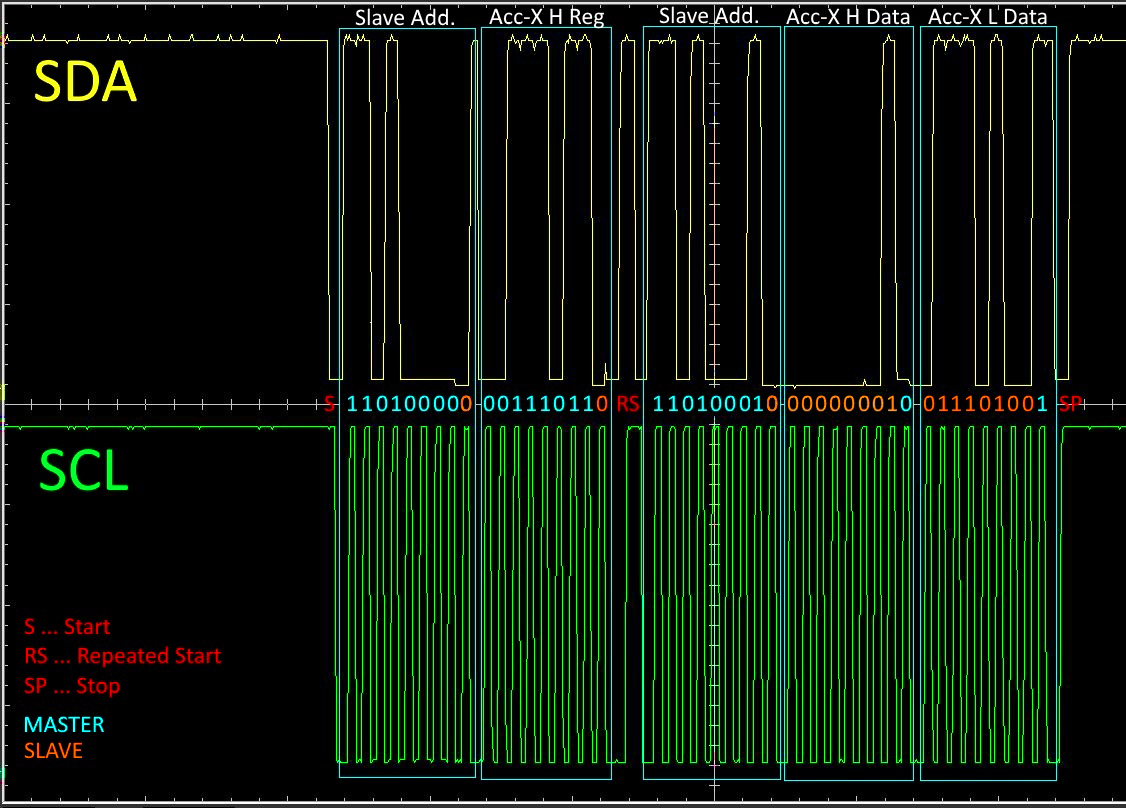
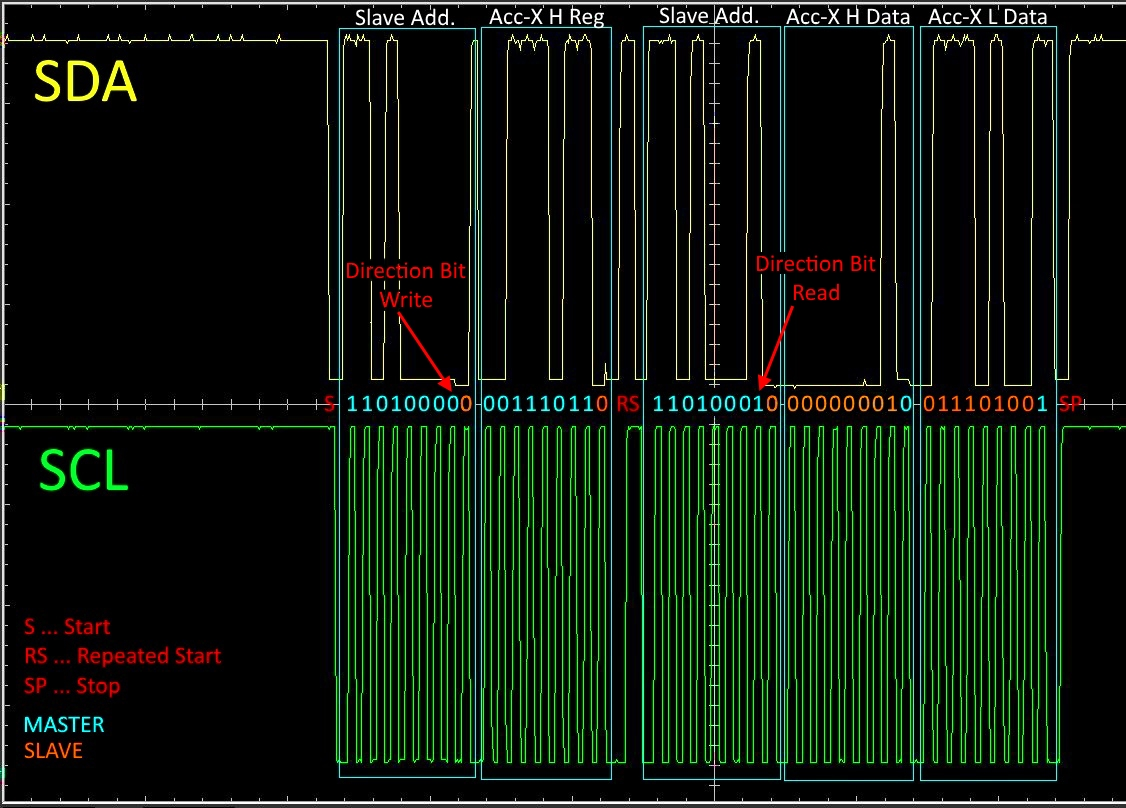
I2C page

diff --git a/I2C.html b/I2C.html
@@ -21,17 +21,17 @@
     <h1>I<sup>2</sup>C</h1>
 
 <h3>Introduction</h3>
-<p><strong>I<sup>2</sup>C</strong> (pronounced I-two-C and most of the time also written as I2C as well) is a very popular communication protocol in the world of microcontrollers. It's advantage is that it allows communication between multiple devices by using only two wires, <strong>SDA (Serial Data Line)</strong> and <strong>SCL (Serial Clock Line)</strong>, unlike USART or SPI where every pair of devices needs its own set of wires. The protocol was invented by Phillips Semiconductors in 1982. The first time I encountered I2C was when I wanted to measure the orientation in space with my Arduino. For that purpose I bought an MPU6050 inertial measurement unit (IMU) that required I2C to talk to it. At first I was really confused since I had no experience with digital communication protocols except some basic understanding of USART from using Arduino Serial library. The first time I looked at an example code for reading accelerometer and gyroscope data from the MPU6050, the example code scared the hell out of me with of a bunch of hexadecimal register addresses. In this tutorial I will try to do my best to explain the principle of the I2C protocol and show an example using an Arduino, standalone ATMega328P chip and Raspberry Pi. I will start with an Arduino Uno and add examples with other devices later. For all the examples I will use the MPU6050, but you may use whichever device you desire. Sometimes I will refer to Arduino and the standalone ATmega328P chip, simply as ATmega328P, since this is also the microcontroller that Arduino uses, but I will provide an example on how to use I2C on a standalone ATmega328P chip in plain C as well. Just for the side note, in terms of legal issues, I<sup>2</sup>C can be freely implemented on any commercial device, but in order to use the name I<sup>2</sup>C on the product, you have to pay, so most of the products use a different name. For instance Atmel uses "Two-wire interface" (TWI) on they chips (ATmega328P).</p>
+<p><strong>I<sup>2</sup>C</strong> (pronounced I-two-C and usually written as I2C as well) is a very popular communication protocol in the world of microcontrollers. It's advantage is that it allows communication between multiple devices by using only two wires, <strong>SDA (Serial Data Line)</strong> and <strong>SCL (Serial Clock Line)</strong>, unlike USART or SPI where every pair of devices needs its own set of wires. The protocol was invented by Phillips Semiconductors in 1982. The first time I encountered I2C was when I wanted to measure the orientation in space with my Arduino. For that purpose I bought an MPU6050 inertial measurement unit (IMU) that required I2C to talk to it. At first I was really confused since I had no experience with digital communication protocols except some basic understanding of USART from using Arduino Serial library. The first time I looked at an example code for reading accelerometer and gyroscope data from the MPU6050, the example code scared the hell out of me with of a bunch of hexadecimal register addresses. In this tutorial I will try to do my best to explain the principle of the I2C protocol and show an example using an Arduino, a standalone ATMega328P chip and a Raspberry Pi. I will start with an Arduino Uno and add examples with other devices later. For all the examples I will use the MPU6050, but you may use whichever device you desire. Sometimes I will refer to the Arduino and the standalone ATmega328P chip, simply as ATmega328P, since this is also the microcontroller that Arduino uses, but I will provide an example on how to use I2C on a standalone ATmega328P chip in plain C. On a side note, in terms of legal issues, I<sup>2</sup>C can be freely implemented on any commercial device, but in order to use the name I<sup>2</sup>C on the product, you have to pay NXP Semiconductors, so most of the products use a different name. For instance Atmel uses "Two-wire interface" (TWI) on they chips (ATmega328P), hence a "Wire.h" library for the Arduino as you will see later.</p>
 
 <h3>The Principle</h3>
 
-<p>To explain how the protocol works I will use an example of three human slaves, where each one monitors a different sensor and reports the reading to the one of the two masters when they request it. Slaves and masters use walkie-talkies to talk to each other. Image below shows the three slaves and two masters.</p>
+<p>To explain how the protocol works I will use an example with three human slaves, where each one of them monitors a different sensor and reports the reading to the one of the two masters when they request it. Slaves and masters use walkie-talkies to talk to each other. Image below shows the three slaves and two masters.</p>
 
 <img src="images/master_slave.png" class="report-figure" style="padding-bottom: 20px;">
 
 <p>Slave A monitors a humidity sensor, slave B a thermometer and slave C a barometer. Masters 1 or 2 can ask the slaves for readings whenever they want. In smaller microcontroller projects, you will most likely use a single master, but in order to explain the full functionality of I2C, I'm using two masters.</p> 
 
-<p>Since there are three different slaves, each one of them has a name (an address) by which the master is going to get their attention. To keep it simple I will just name them A, B an C, as depicted on the image. They agreed in advance that to get the data from the slaves, a master has to first remotely ring a bell at the site where the slaves are, get the desired slave's attention by calling the slave's name and then tell the slave in what units the data should be reported. Once the master gets a pencil and a paper to write down the measurement from the slave he/she transmits the name of the slave again, which means that the slave should report the measurement. Once the measurement is written down, the master rings the bell twice to mark the end of the conversation. To make sure that a certain slave is present (better be) and that the instruction was heard, the receiver <strong>acknowledges</strong> that the instruction was received. If the master is happy with the received message, he/she transmits "enough", to indicate that this was all that was needed. I will call this "enough" as not-acknowledged (sounds weird, but you will see later why I call it like that). In order for the master 1 to receive the temperature in Fahrenheit from the slave B, the conversation would go as following:</p>
+<p>Since there are three different slaves, each one of them has a name (an address) by which a master gets their attention. To keep it simple I will just name them A, B an C, as depicted on the image. They agreed in advance that to get the data from the slaves, a master has to first remotely ring a bell at the site where the slaves are, get the desired slave's attention by calling the slave's name and then tell the slave in what units the data should be reported. Once the master gets a pencil and a paper to write down the measurement from the slave he/she transmits the name of the slave again, which means that the slave should report the measurement. Once the measurement is written down, the master rings the bell twice to mark the end of the conversation. Another important purpose of the bell is to let the other master know, that he/she should wait until the first master ends the conversation. To make sure that a certain slave is present (better be) and that the instruction was heard, the receiver <strong>acknowledges</strong> that the instruction was received. If the master is happy with the received message, he/she transmits "enough", to indicate that this was all that was needed. I will call this "enough" as not-acknowledged (sounds weird, but you will see later why I call it like that). In order for the master 1 to receive the temperature in Fahrenheit from the slave B, the conversation would go as following:</p>
 
 <table class="table" style="width: 80%; margin: 0 auto;">
     <thead>
@@ -95,7 +95,7 @@
     </tbody>
   </table>
 
-<p style="padding-top: 20px">Just to understand another important concept let's assume that the master 1 wants to know the pressure in psi and MPa from the slave C. They also agreed in advance that whenever the master acknowledges the reception by "roger", the slave then just transmits the measurement in another unit right after. Slave C keeps track of pressure measurements in psi, MPa, atm and torr, so if the master received the measurement in psi, he/she acknowledges the message by "roger", to let the slave know to send the pressure in kPa as well. The slave keeps sending the measurement until the master "not-acknowledges" the reception by "enough" or until the slave has no more measurements to send. The conversation for receiving pressure measurements in psi and kPa would go like this:</p>
+<p style="padding-top: 20px">Just to understand another important concept let's assume that the master 1 wants to know the pressure in psi and MPa from the slave C. They also agreed in advance that whenever the master acknowledges the reception by "roger", the slave then transmits the measurement in another unit right after. Slave C keeps track of pressure measurements in psi, MPa, atm and torr, so if the master received the measurement in psi, he/she acknowledges the message by "roger", to let the slave know to send the pressure in kPa as well. The slave keeps sending the measurement until the master "not-acknowledges" the reception by "enough" or until the slave has no more measurements to send. The conversation for receiving pressure measurements in psi and kPa would go like this:</p>
 
 <table class="table" style="width: 80%; margin: 0 auto;">
     <thead>
@@ -169,7 +169,7 @@
     </tbody>
   </table>
 
-<p style="padding-top: 20px">This acknowledgment, not-acknowledgment agreement would prove more useful if there was only one slave who was measuring all the different sensors at once. In that case the master would just tell the slave to report whatever measurement was the first on the list and keep acknowledging until all the required measurements were received. The communications seems quite complicated and redundant, but this protocol is not really intended for humans, but digital devices instead. By saying that they know something in <strong>advance</strong>", it is implied that these are the <strong>rules</strong> of the protocol. Before going into the world of digital devices, let's go over some of the specifications and prerequisites.</p>
+<p style="padding-top: 20px">This acknowledgment, not-acknowledgment agreement would prove more useful if there was only one slave that was measuring all the different sensors at once. In that case the master would just tell the slave to report whatever measurement was the first on the list and keep acknowledging until all the required measurements were received. The communications seems quite complicated and redundant, but this protocol is not really intended for humans, but digital devices instead. By saying that they know something in <strong>advance</strong>", it implies that these are the <strong>rules</strong> of the protocol. Before going into the world of digital devices, let's go over some of the specifications and prerequisites.</p>
 
 <h3>The Basics</h3>
 
@@ -178,81 +178,82 @@
   <li>basic electronics</li>
   <li>basic C (or Arduino dialect)</li>
   <li>the difference between binary, decimal, hexadecimal, ...</li>
-  <li>what registers are (at least know that a register is a storage area where data or instructions are stored, in ATmega328P they are 8-bits long)
+  <li>what registers are (at least know that a register is a memory slot where data or instructions are stored, in ATmega328P a register can hold 8 bits (1 byte)).
 </li>
 </ul>
 
-<p>The devices communicating via I2C are all connected to the same set of wires, SDA (Serial Data Line) and SCL (Serial Clock Line), where all the data transfers takes place. The two wires constitute the <strong>I2C bus</strong>. As shown in the example above, I2C is a multi-master, multi-slave protocol, which means that a system of nodes (devices) can have multiple master devices and multiple slave devices. To understand what this means you need to understand what each one of them does. In a few words:</p>
+<p>The devices communicating via I2C are all connected to the same set of wires, SDA (Serial Data Line) and SCL (Serial Clock Line). The two wires constitute the <strong>I2C bus</strong>. As shown in the example above, I2C is a <strong>multi-master</strong>, <strong>multi-slave protocol</strong>, which means that a system of nodes (devices) can have multiple master devices and multiple slave devices. To understand what this means you need to understand what each one of them does. In a few words:</p>
 
 <ul>
 	<li>Master Device: generates the clock and initializes the communication with a slave device</li>
 	<li>Slave Device: receives the clock and responds when addressed by the master.</li>
 </ul>
+
 <p>Microcontrollers such as the Arduino (ATmega328P) can be configured to act as a master or a slave device, whereas simpler sensor devices usually support only the slave mode.</p>
 
-<blockquote><small>One thing to keep in mind when using multiple masters is that they cannot communicate with each other, but they have to listen to I2C bus if anyone else is transmitting before requesting data from the slaves, so they don't request it at the same time, since the slaves would not understand what masters want if they request something at the same time. This also applies to the regular conversation between people. If you talked to an audience, everyone who listened would understand what you are saying (assuming you talked loud and clear in a language everyone understood). But if everyone in the audience tried to tell you something at the same time, you would just hear some jibber jabber. If two or more master devices would transmit a packet to slaves at the same time, the packets would <em>collide</em>, so in case of a multi-master I2C setup, some sort of packet collision aviodance mechanism has to be implemented. As I wrote before, this only applies if you have a project consisting of multiple master devices, otherwise do not worry about this now.</small></blockquote>
+<blockquote><small>One thing to keep in mind when using multiple masters is that they cannot communicate with each other, but they have to listen to the I2C bus if anyone else is transmitting before requesting data from the slaves, so they don't request it at the same time, otherwise the slaves would not understand what masters want. This also applies to the regular conversation between people. If you talked to an audience, everyone who listened would understand what you are saying (assuming you talked loud and clear in a language everyone understood). But if everyone in the audience tried to tell you something at the same time, you would just hear some jibber jabber. If two or more masters transmit a packet to slaves at the same time, the packets <em>collide</em>, so in case of a multi-master I2C setup, a some sort of packet collision avoidance mechanism has to be implemented. As I wrote before, this only applies if you have a project consisting of multiple master devices, otherwise do not worry about this for now.</small></blockquote>
 
 <h4>SCL and SDA</h4>
 
-<p>SDA is where the data, the payload, is transmitted between the devices.</p>
+<p><strong>SDA</strong> is where the data, the payload, is transmitted between the devices.</p>
 
-<p>SCL is where the master sends the generated clock signal that the slave devices receive. With this said, a shared clock between the master and slave devices makes I2C a <strong>synchronous protocol</strong>, in contrast of USART, which is <strong>asynchronous</strong>. In asynchronous protocols the two devices talking to each other need to know in advance the rate at which they will transfer bits (baudrate).</p>
+<p><strong>SCL</strong> is where the master sends the generated clock signal that the slave devices receive. With this said, a shared clock between the master and slave devices makes I2C a <strong>synchronous protocol</strong>, in contrast of UART, which is <strong>asynchronous</strong>. In asynchronous protocols the two devices talking to each other need to know in advance the rate at which they will transfer the bits (baudrate).</p>
 
-<p>The clock that the master generates defines the rate at which the data is transfered. I2C supports various clock speeds, but simple devices commonly used in microcontroller projects support the original 100 kHz mode or the 400 kHz fast-mode. The fastest supported mode for I2C right now is 5 GHz Ultra Fast-mode.</p>
+<p><strong>The clock</strong> that the master generates defines the rate at which the data is transfered. I2C supports various clock speeds, but simple devices commonly used in microcontroller projects support the original 100 kHz mode or the 400 kHz fast-mode. The fastest supported mode for I2C right now is the 5 GHz Ultra Fast-mode.</p>
 
 <h4>Addressing</h4>
 
-<p>The number of devices that I2C can communicate with are defined by the number of bits each device's address consists of. I2C devices can have 7 or 10 bit addresses. In theory, the largest number that a 7-bit address can be is (1111111)<sub>2</sub> or (127)<sub>10</sub>, which defines the maximum number of devices connected to the same I2C bus. Since there are some addresses that are reserved and cannot be used for addressing, the maximum number of devices with 7-bit addresses is (112)<sub>10</sub>. (I am using the parentheses with a subscript to indicate the base of the number, so 2 for binary and 10 for decimal and 16 for hexadecimal.) The maximum number of devices is also limited at the physical layer by the total bus capacitance.</p>
+<p>The number of devices that I2C can communicate with is defined by the number of bits each device's address consists of. I2C devices can have 7 or 10 bit addresses. In theory, the largest number that a 7-bit address can be is (1111111)<sub>2</sub> or (127)<sub>10</sub>, which defines the maximum number of devices connected to the same I2C bus. Since there are some addresses that are reserved and cannot be used for addressing, the maximum number of devices with 7-bit addresses is (112)<sub>10</sub>. (I am using the parentheses with a subscript to indicate the base of the number, so 2 for binary and 10 for decimal and 16 for hexadecimal.) The maximum number of devices is also limited at the physical layer by the total bus capacitance.</p>
 
-<p>I2C addresses as well as any other memory address (registers, etc.) are by convention expressed in hexadecimal. Hexadecimal numbers are much more convenient then binary, since in binary the addresses would become very long, which would be very hard to remember and prone to mistakes. The conversion between hexadecimal and binary is much easier then between decimal and binary. Sometimes I will use the C-language syntax to indicate the base of the numbers, where decimal numbers are depicted simply as the number itself, binary numbers have 0b prefix (ex: 0b1010 = 10) and hexadecimals have 0x prefix (ex: 0xA = 0b1010 = 10).</p>
+<p>I2C and any other memory addresses (registers, etc.) are by convention expressed in hexadecimal. Hexadecimal numbers are much more convenient then binary, since in binary the addresses would become very long, which would be hard to remember and prone to mistakes. The conversion between hexadecimal and binary is much easier then between decimal and binary. Sometimes I will use the C-language syntax to indicate the base of the numbers, where decimal numbers are depicted simply as the number itself, binary numbers have a 0b prefix (ex: 0b1010 = 10) and hexadecimals have a 0x prefix (ex: 0xA = 0b1010 = 10).</p>
 
 <h3>Example with Digital Devices</h3>
 
-<p>To give the just explained information more sense, let's consider a real I2C example shown below.</p>
+<p>To give more sense to what I just explained, let's consider a real I2C example shown below.</p>
 
 <img src="images/master_slave_real.png" class="report-figure" style="width: 95%">
 
-<p>This setup uses two masters, one is an Arduino Uno used to control something and the other one is a Raspberry Pi used for storing the data to a remote database. The slaves are two MPU6050 IMUs, placed on two different spots on, for example, a spaceship.</p>
+<p>This setup uses two masters, one is an Arduino Uno used to control something and the other one is a Raspberry Pi used for storing the data to a remote database. The slaves are two MPU6050 IMUs, placed on two different spots on, for example, on a spaceship.</p>
 
-<p>As we switched from people to digital devices, the first thing to do is to wire them properly. As you can see on the image above, both I2C wires, SDA and SCL are connected to the same voltage source by 2 pull-up resistors. The reason the pull-up resistors are used is that the I2C lines are open-drain (or open-collector in TTL), which means that the signal can be pulled to low, but not to high. For projects with Arduino, Raspberry Pi and other similar devices, the source is usually 3.3 V or 5 V. The selection of pull-up resistors is a bit more complicated, since an optimal resistance depends on the length of the wires and the number of connected devices to the bus. Sparkfun recommends to start with 4.7 k&#8486; resistors and work down if needed. All of the devices have to be to be connected to a common ground, this is very important. Before getting all frustrated by selecting proper pull-up resistors make sure that the devices you are going to use don't implement them already, for instance MPU6050 has both lines connected to high with 4.7 k&#8486; resistors. If all the devices are very close to each other that should usually work most of the time, but if you intend to use longer wires for I2C, you might have to try different pull-up resistors. Also keep in mind that longer wires are more prone for errors, so if there is much more environmental noise, they should be kept as short as possible.</p>
+<p>As we switched from people to digital devices, the first thing to do is to wire them properly. As you can see on the image above, both I2C wires, SDA and SCL are connected to the same voltage source by 2 pull-up resistors. The reason the pull-up resistors are used is that the I2C lines are <strong>open-drain</strong> (or <strong>open-collector</strong> in TTL), which means that the signal can be pulled to low, but not to high. For projects with Arduino, Raspberry Pi and other similar devices, the voltage source is usually at 3.3 V or 5 V. The selection of pull-up resistors is a bit more complicated, since an optimal resistance depends on the length of the wires and the number of devices connected to the bus. Sparkfun recommends to start with 4.7 k&#8486; resistors and work down if needed. All of the devices have to be connected to a common ground, this is very important. Before getting all confused by selecting proper pull-up resistors make sure that the devices you are going to use don't implement them already, for instance MPU6050 has both lines connected to high with 4.7 k&#8486; resistors. Having all the devices close to each other should work well most of the time, but if you intend to use longer wires between the devices, you might have to try different pull-up resistors. Also keep in mind that long wires are more prone to noise-induced errors, so if there is a lot of noise in the environment, the wires should be kept as short as possible.</p>
 
-<p>Now that all is hooked up, let's go into the basics of the protocol. The clock signal on the SCL is generated by the master devices when it initiates the communication. When no communication is taking place, the SCL is constantly pulled to high. A very important rule of the protocol is that a signal on SDA can change only when the clock is low, except when the master assign the start and stop of the communication. Start and stop conditions consist of a change of state when the clock is high, they are defined as:</p>
+<p>Now that all is hooked up, let's go into the basics of the protocol. The clock signal on the SCL is generated by the master devices when it initiates the communication. When no communication is taking place, the SCL is constantly pulled to high. A very important rule of the protocol is that a signal on the SDA can change only when the clock is low, the only exception to this is when the master signals the start or the stop of the communication. Start and stop conditions consist of a change of state when the clock is high, they are defined as:</p>
 
 <ul>
 	<li>Start: SDA is pulled from high to low</li>
 	<li>Stop: SDA is pulled low from high.</li>
 </ul>
 
-<p>Right after the start condition is transmitted by the master, other communication information follows. Devices decode whether the bit send is true or false, by checking if the voltage is high or low when the clock (SCL) is high. It's easier to explain this with a simple timing diagram as shown below: (For drawing timing diagrams I use <a href="http://wavedrom.com/" target="_blank">WaveDorm</a>.)</p>
+<p>Right after the start condition is transmitted by the master, other communication information follow. Devices decode whether the bit sent is true or false, by checking if the voltage is high or low when the clock (SCL) is high. It's easier to explain this with a simple timing diagram as shown below: (For drawing timing diagrams I use <a href="http://wavedrom.com/" target="_blank">WaveDorm</a>.)</p>
 
 <img src="images/I2C_timing.png" class="report-figure" style="width: 90%">
 
-<p>In this example I will use devices with 7-bit addresses, slave A has the address (68)<sub>16</sub> and slave B the address (69)<sub>16</sub>. So in order to address the right slave, its address has to be sent in binary right after the start bit. So to address the (68)<sub>16</sub> MPU6050, (1101000)<sub>2</sub> has to be sent.</p>
+<p>In this example I will use devices with 7-bit addresses, slave A has the address (68)<sub>16</sub> and slave B the address (69)<sub>16</sub>. In order to address the right slave, its address has to be sent in binary right after the start bit. For example, to address the (68)<sub>16</sub> MPU6050, (1101000)<sub>2</sub> has to be sent.</p>
 
-<p>Just like the master had to tell the slave whether to listen or do report the data, the master device has to do the same, so the bit sent after the address is called the <strong>direction bit</strong> (READ/WRITE), where:</p>
+<p>Just like the master had to tell the slave whether to listen or to report the data, the master device has to do the same by sending another specific bit after the address. This bit is called the <strong>direction bit</strong> (READ/WRITE), where:</p>
 
 <ul>
   <li>Read: 1 (low)</li>
   <li>Write: 0 (high)</li>
 </ul>
 
-<p>Sometimes the addresses are written as devices <strong>write</strong> and <strong>read address</strong>. Those addresses are just the 7-bit device's address with the direction bit appended. For the (68)<sub>16</sub> MPU6050 we could write read and write addresses as following:</p>
+<p>Sometimes the addresses are written as the <strong>write</strong> and <strong>read address</strong>. Those addresses are just the 7-bit device's address with the direction bit appended. Arduino's "Wire.h" library takes care of that for you, so you don't have to worry about it, but you might run into it at some point. For the (68)<sub>16</sub> MPU6050 we could write read and write addresses as following:</p>
 
 <ul>
   <li>Read Address: (11010001)<sub>2</sub> = (D1)<sub>16</sub></li>
   <li>Write Address: (11010000)<sub>2</sub> = (D0)<sub>16</sub></li>
 </ul>
 
-<p>When the slave is address and no errors occurred, the slave acknowledge the message. The acknowledge bit is depicted as <strong>ACK</strong> and not-acknowledge as <strong>NACK</strong>, where:</p>
+<p>When the slave is addressed and no errors occurred, it acknowledges the message. The acknowledge bit is usually written as <strong>ACK</strong> and not-acknowledge as <strong>NACK</strong>, where:</p>
 
 <ul>
   <li>ACK: 0 (low)</li>
   <li>NACK: 1 (high)</li>
 </ul>
 
-<p>ACK and NACK bit is transmitted by the received device, whether this is a master or the slave, right after the 8-bit from the sender are received. NACK bit is used to let the sender know that enough information was received and that the communication is about to stop or whenever an error occurred, so it can be used for error checking. This also makes I2C suitable for noise environments.</p>
+<p>ACK or NACK bit is transmitted by the received device, whether the received is a master or the slave. It is transmitted right after the 8 bits from the sender are received. NACK bit is used to let the sender know that enough information was received and that the communication is about to stop or if an error occurred, so it can be used for error checking as well. This also makes I2C suitable for noisy environments.</p>
 
-<p>To recap how the whole communication between a master and a slave goes, I will show it in a similar table I used in the second example, except here I will use an IMU for getting the 16-bit signed integer reading of the acceleration in X direction (the coordinate axis is draw on the accelerometer, this information doesn't really matter for now). Because only 8-bit number can be read from a device right now and because the IMU (as well as the ATmega328P) store the data in 8-bit registers, 16-bit numbers have to be store in two separate registers. The most significant 8 bits are stored at one location and the least significant 8-bit are stored at another location, most of the time they are in the next location from the most significant bit, so they can be read one after another. Here is the table:</p>
+<p>To recap how the whole communication between a master and a slave goes, I will show it in a similar table I used in the second example, except here I will use an IMU for getting the 16-bit signed integer reading of the acceleration in X direction (the coordinate axis is drawn on the accelerometer). Because only 8-bit number can be read from a device and because the IMU (as well as the ATmega328P) store the data in 8-bit registers, 16-bit numbers have to be stored in two separate registers. The most significant byte is stored at one location and the least significant byte at another location in memory, most of the time they are in the next location from the most significant bit, so they can be read one after another. Here is the table:</p>
 
 <table class="table" style="width: 80%; margin: 0 auto;">
     <thead>
@@ -345,11 +346,11 @@
 
 <img src="images/arduinoExample.png" class="report-figure" style="width: 50%; padding-top: 20px; padding-bottom: 20px;">
 
-<p>The Vcc pin on the MPU6050 is connected to 5 V on Arduino. Grounds (GND) are connected together. SCL and SDA pins on the MPU6050 are connected to SCL and SDA on the Arduino, SCL is on pin A5 and SDA is on pin A4. AD0 pin on the MPU6050 is connected to ground, the AD0 pin is a device address select pin, since if connected to ground, MPU6050's address is (68)<sub>16</sub>, if connected to Vcc, its address is (69)<sub>16</sub>. This makes it possible to use two MPU6050s on the same I2C bus.</p>
+<p>The Vcc pin on the MPU6050 is connected to 5 V on the Arduino. Grounds (GND) are connected together. SCL and SDA pins on the MPU6050 are connected to SCL and SDA on the Arduino, SCL is connected to pin A5 and SDA is to pin A4. AD0 pin on the MPU6050 is connected to the ground, the AD0 pin is the  "device address select" pin, since if connected to the ground, MPU6050's address is (68)<sub>16</sub>, if connected to Vcc, its address is (69)<sub>16</sub>. This makes it possible to use two MPU6050s on the same I2C bus.</p>
 
-<p>With the MPU6050 we can measure acceleration and angular rates in three axis (X, Y and Z), but for simplicity I will read only acceleration in Z direction from it. All of the measurements on the IMU are 16-bits longs, hence they are stored in two separate registers that have to be read from and combined into one 16-bit value on the Arduino.</p>
+<p>With the MPU6050 we can measure acceleration and angular rates in three axis (X, Y and Z), but for simplicity I will read only acceleration in the X direction. All of the measurements on the IMU are 16 bits longs, hence they are stored in two separate registers that have to be read separately and combined into one 16-bit variable on the Arduino.</p>
 
-<p>In the example with ATmega328P I will go more into lower level details on how I2C works, but in this example with the Arduino Uno, I will keep it a bit simpler and use Arduino's "Wire.h" library that is written specifically for I2C communication. First I will show the code and then explain the I2C functions.</p>
+<p>In the example with the ATmega328P I will go more into lower level details on how I2C works, but in this example with the Arduino Uno, I will keep it a bit simpler and I will use Arduino's "Wire.h" library that is written specifically for I2C communication. First I will show the code and then explain it.</p>
 
 <pre class=".pre-scrollable"><code>
 #include&lt;Wire.h&gt;
@@ -380,13 +381,13 @@ void loop(){
 }
 </code></pre>
 
-<p>I will assume that you know the basics of C or Arduino dialect, so I won't go into details on how to include a library, such as Wire.h, how to declare a variable or what setup() and loop() functions are.</p>
+<p>I will assume that you know the basics of C or Arduino dialect, so I won't go into details on how to include a library, how to declare a variable or what setup() and loop() functions are.</p>
 
 <p><code>Wire.begin();</code> sets up the chip for the I2C communications and joins the I2C bus as a master. (If we wanted the Arduino to be as a slave device, we would pass a desired I2C address to the begin method.)</p>
 
 <p><code>Wire.beginTransmission(MPU6050_ADDRESS);</code> does what is says, it begins the transmission with the slave device, in this case the MPU6050 with the address 0x68 as defined with the MPU6050_ADDRESS macro.</p>
 
-<p>The following two lines: <code>Wire.write(MPU6050_RA_PWR_MGMT_1);</code> and <code>Wire.write(1);</code> queue ("store") the bytes to be sent to the slave device when <code>Wire.endTransmission(true)</code> is called. The input argument for the endTransmission method specifies whether to end the transmission with a <strong>Stop condition</strong> or a <strong>Repeated Start condition</strong>. The repeated start is used when we want to send a command to a device and then read the response right away. This keeps the I2C bus busy, so another master on the bus cannot interrupt the transmission. The MPU6050_RA_PWR_MGMT_1 register sets up the clock source that drives the IMU. I don't want to go into details here, I will write another post about the MPU6050. For now just remember that by setting the MPU6050_RA_PWR_MGMT_1 register to 0b00000000 (0) the MPU6050 will use its internal 8 MHz clock, by setting the register to 0b00000001 (1), it will use the X-gyroscopes clock, which was determined to be a bit more stable than the default clock. One very important thing to remember how Arduino's wire.h library works is that it queues the bytes we want to send and sends all of them when endTransmission method is called. A queue is a <strong>FIFO (First In First Out)</strong> data structure, which means that whatever we queue first, will be sent first. Let's show how this works on the code written inside the loop() function.</p>
+<p>The following two lines: <code>Wire.write(MPU6050_RA_PWR_MGMT_1);</code> and <code>Wire.write(1);</code> queue ("store") the bytes to be sent to the slave device when <code>Wire.endTransmission(true)</code> is called. The input argument for the endTransmission method specifies whether to end the transmission with a <strong>Stop condition</strong> or a <strong>Repeated Start condition</strong>. The repeated start is used when we want to send a command to a device and then read the response right away. This keeps the I2C bus busy, so another master on the bus cannot interrupt the transmission. The MPU6050_RA_PWR_MGMT_1 register sets up the clock source that drives the IMU. I don't want to go into details here, I will write another post about the MPU6050. For now just remember that by setting the MPU6050_RA_PWR_MGMT_1 register to 0b00000000 (0) the MPU6050 will use its internal 8 MHz clock, by setting the register to 0b00000001 (1), it will use the X-gyroscopes clock, which was determined to be a bit more stable than the default clock. An important thing to remember about how Arduino's "Wire.h" library works is that it <strong>queues</strong> the bytes we want to send and sends all of them when endTransmission method is called. A <strong>queue</strong> is a <strong>FIFO (First In First Out)</strong> data structure, which means that whatever we queue first, will be sent first. Let's show how this works by going through the code written inside the loop() function.</p>
 
 <ol>
 <li><code>Wire.beginTransmission(MPU6050_ADDRESS);</code>-queue the 7-bit MPU6050 address - 0b1101000</li>
@@ -396,7 +397,7 @@ void loop(){
 <li><code>AcX=Wire.read()<<8|Wire.read();</code>-with the method <code>Wire.read()</code> we read each byte (8-bits) of the 16-bit accelerometer measurement separately and store it in a 16-bit variable AcX. Below is a detailed explanation of this line of code.</li>
 </ol>
 
-<p>The MPU6050 IMU uses a 16-bit <strong>analog-to-digital converted (ADC)</strong> for digitizing sensor outputs, so all the sensor readings are 16-bit signed integer values (two's complement format), but it stores the number in two 8-bit registers. The most significant byte (the high byte) is stored in one register, while the other, the least significant byte (the low byte) is stored in another register. For convenience, the MPU6050 (as well as most of other sensor devices) stores the high byte of the sensor measurement one register before the register that hold the low byte. For instance the X-Accelerometer high byte is stored in the register with the address 0x3B, while the low byte is stored at 0x3C, so by taking the advantage of ACK and NACK bits we can receive both bytes one after another. Line <code>AcX=Wire.read()<<8|Wire.read();</code> reads both, the high and the low byte one after another and does some bitwise operations to store them in the 16-bit variable AcX. These operations can be written in multiple lines of code for better clarity, such as:</p>
+<p>The MPU6050 IMU uses a 16-bit <strong>analog-to-digital converter (ADC)</strong> for digitizing sensor outputs, so all the sensor readings are 16-bit signed integer values (two's complement format), but it stores the number in two 8-bit registers. The most significant byte (the high byte) is stored in one register, while the other, the least significant byte (the low byte) is stored in another register. For convenience, the MPU6050 (as well as most of the other sensor devices) holds the high byte of the sensor measurement one register before the register that holds the low byte. For instance the X-Accelerometer high byte is stored at the address 0x3B, while the low byte is stored at 0x3C, so by taking the advantage of the ACK and NACK bits we can receive both bytes one after another. Line <code>AcX=Wire.read()<<8|Wire.read();</code> reads both, the high and the low byte one after another and does some bitwise operations to store them in the 16-bit variable AcX. These operations can be also written in multiple lines of code for better clarity, such as:</p>
 
 <pre class=".pre-scrollable"><code>
   AcX_High = Wire.read();
@@ -405,11 +406,11 @@ void loop(){
   AcX = AcX|AcX_Low;
 </code></pre>
 
-<p>Where the first line stores the high byte to AcX_High 16-bit signed variable (uint16_t), the second line does the same with the low byte and stores it to AcX_Low, the third line shifts the high_byte 8-bits to the left with the <strong>bit-shift operator</strong> (left: <<, right: >>), the fourth line performs the <strong>bitwise</strong> OR operation with the AcX variable containing the shifter high byte and the AcX_Low variable containing the low byte. The bitwise OR does the OR operation between each bit of each variable. Below is a graphical representation of these operations.</p>
+<p>The first line stores the high byte to AcX_High 16-bit signed variable (int16_t), the second line does the same with the low byte and stores it to AcX_Low, the third line shifts the high byte 8-bits to the left with the <strong>bit-shift operator</strong> (left: <<, right: >>), the fourth line performs the <strong>bitwise</strong> OR operation with the AcX variable containing the shifted high byte and the AcX_Low variable containing the low byte. The bitwise OR does the OR operation between each bit. Below is a graphical representation of these operations.</p>
 
 <img src="images/I2C_bitOps.PNG" class="report-figure" style="width: 70%; padding-top: 10px; padding-bottom: 20px;">
 
-<p>It's important to mention that the endTransmission method sends what is stored (queued) in a queue, it does not send all of the at once exactly, but it sends the next byte only if it received an acknowledgment (ACK) from the slave. To make sure that everything I wrote here is true, take a look at the output from the oscilloscope connected to the SDA and SCL while the above program was running.</p>
+<p>It's important to mention that the endTransmission method sends what is stored (queued) in a queue, it does not send all of it at once, but it sends the next byte only if it received an acknowledgment (ACK) from the slave. To make sure that everything I wrote here is true, take a look at the output from the oscilloscope connected to the SDA and SCL while the above program was running. I will leave it to you to make sense of the oscilloscope output.</p>
 
 <img src="images/oscilloscope.jpg" class="report-figure" style="width: 90%; padding-top: 20px; padding-bottom: 20px;">
 
